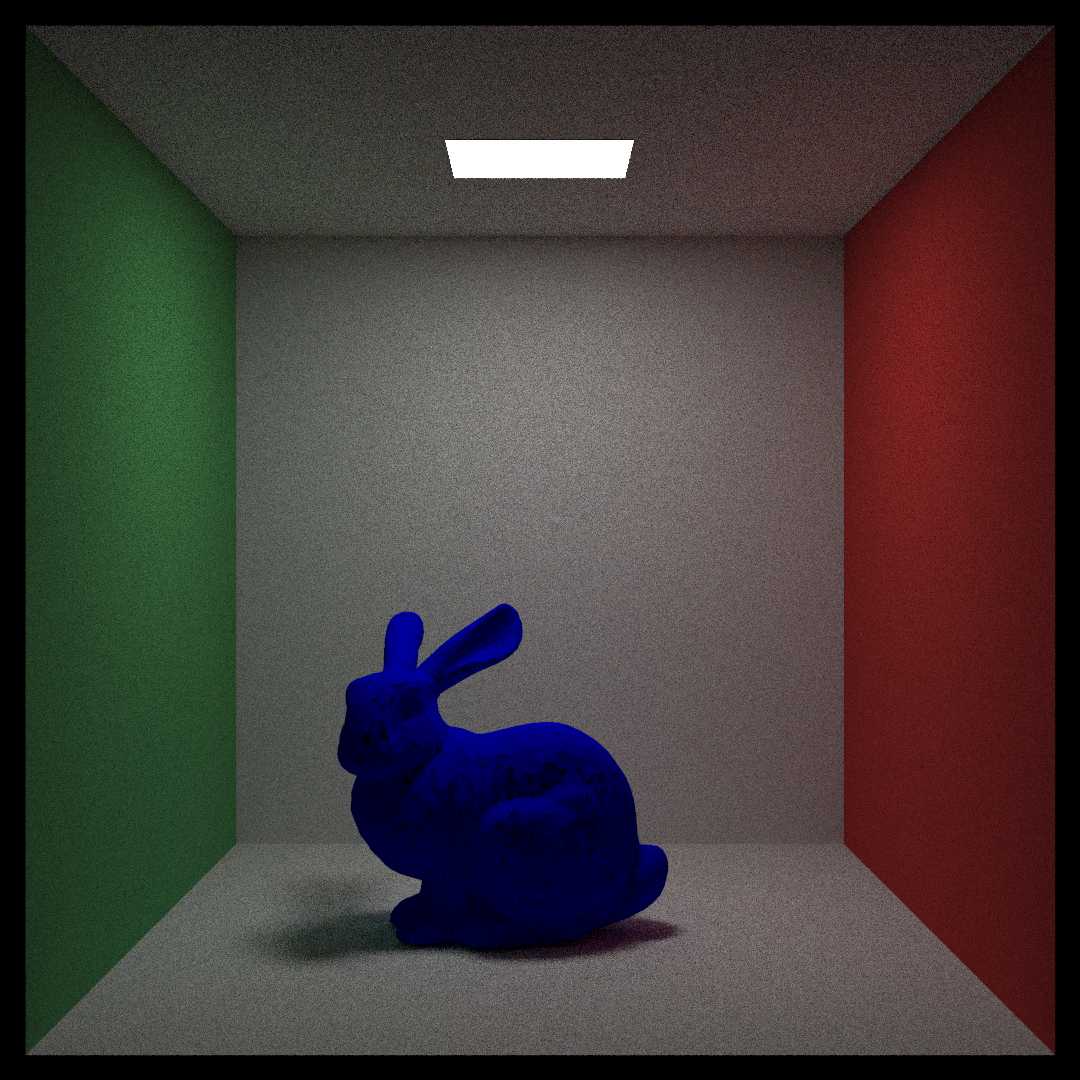
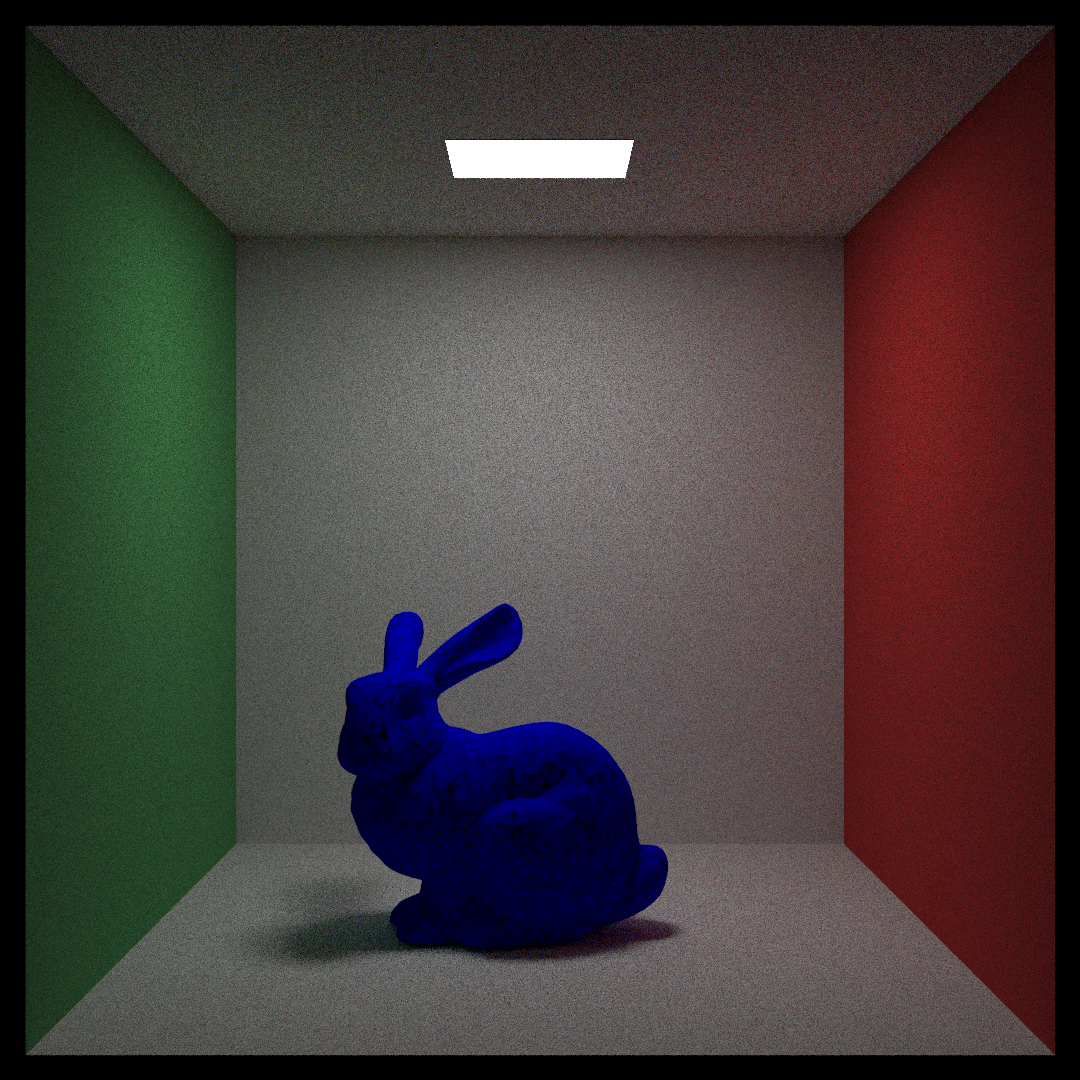
fixed issues

Changed region(s): [[0.0306, 0.0306, 0.9778, 0.9778], [0.7944, 0.2139, 0.9472, 0.55], [0.0917, 0.2444, 0.1833, 0.4583]]

diff --git a/kernels/src/hitables/object_parser.rs b/kernels/src/hitables/object_parser.rs
@@ -15,6 +15,7 @@ pub fn parse_obj<'a>(
     // Implementation for parsing .obj files
     let file = BufReader::new(File::open(path)?);
     let mut vertices = Vec::new();
+    let mut vertex_normals = Vec::new();
     let mut result = HitableListBuilder::new();
 
     for line in file.lines() {
@@ -25,11 +26,19 @@ pub fn parse_obj<'a>(
         }
         match parts[0] {
             "#" => continue,
+            "o" => continue,
+            "s" => continue,
             "v" => {
                 let x: Real = parts[1].parse()?;
                 let y: Real = parts[2].parse()?;
                 let z: Real = parts[3].parse()?;
                 vertices.push(Vec3::new(x, y, z));
+            }
+            "vn" => {
+                let x: Real = parts[1].parse()?;
+                let y: Real = parts[2].parse()?;
+                let z: Real = parts[3].parse()?;
+                vertex_normals.push(Vec3::new(x, y, z));
             }
             "f" => {
                 let v1: usize = parts[1].split('/').next().unwrap().parse()?;

diff --git a/src/bin/render.rs b/src/bin/render.rs
@@ -543,7 +543,7 @@ fn bunny<'a>(options: &mut RenderOptions) -> HitableListBuilder<'a> {
     )
     .expect("Failed to parse bunny.obj");
 
-    let bunny = bunny.subdivide(&[3, 3]);
+    let bunny = bunny.subdivide(&[3, 3, 3]);
 
     world.add(Translate::new_owned(
         Vec3::new(277.5, -50.0, 277.5),
